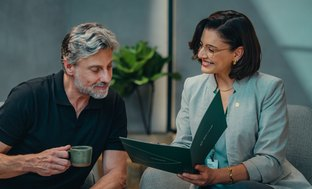
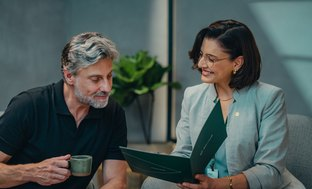
horoscopo: texto, selo e fundo; private reenquadrado nos rostos
O texto e o selo chegaram na pasta depois do commit anterior. Os tres
blocos sairam do placeholder e o selo veio em VETOR, entao entrou como
svg — e nao precisa de versao -m.

Fundo: o case nasceu sem foto e estava em preto chapado. Agora leva um
degrade roxo construido como o da Bridgestone (clarao suave sobre quase
preto), com as cores amostradas dos proprios filmes: #802CC2 de dominante
e #BE419B no canto. Tentei verde primeiro, mas os frames misturam verde e
magenta e a dominancia de verde nao passava de +5,6 — sairia embarreirado.
O grao de 2,2 existe porque degrade chapado em 1920 faz banding no
projetor.

Private: a Foto2 e retrato 5518x8277 e o corte centralizado cortava os
rostos do casal na altura do peito. O recorte agora e calculado a partir
da altura dos rostos (28,1% da imagem), posicionando-os a 40% do cartao.
A Foto3 foi junto, pelo mesmo criterio.

PDF e mobile ficaram para depois, a pedido.

diff --git a/mobile.html b/mobile.html
@@ -6,7 +6,7 @@
 <title>WT.AG — Credenciais 2026</title>
 <meta name="description" content="Credenciais WT.AG 2026 — Social First Agency.">
 <meta name="theme-color" content="#000000">
-<link rel="stylesheet" href="css/mobile.css?v=231">
+<link rel="stylesheet" href="css/mobile.css?v=233">
 </head>
 <body>
 <!-- ══════════════════════════════════════════════════════════════════════════
@@ -313,17 +313,18 @@
 <div><div class="rot">Repercussão</div><p class="vazio">Esta campanha não recebeu prêmios nem publicações na imprensa.</p></div>
 </section>
 <section class="sec sec--auto" id="m-s-horoscopo" style="--acento:#4FA82E" data-titulo="Sicredi Serrana · Horóscopo do Golpe" data-case="1">
-
+<div class="sec__bg"><img data-lazy="assets/img/cases/horoscopo-fundo.jpg" alt=""></div>
 <div class="credito"><img data-lazy="assets/img/logos-cases/sicredi.png" alt="Sicredi"><em>apresenta</em></div>
+<img class="selo" data-lazy="assets/img/logos-cases/selo-horoscopo-do-golpe.svg" alt="Horóscopo do Golpe">
 <div class="media media--16x9" data-video="assets/video/case-horoscopo.mp4" data-legenda="Sicredi Serrana · Horóscopo do Golpe"><img data-lazy="assets/img/cases/horoscopo-hero.jpg" alt=""><button class="play" type="button" aria-label="Assistir"></button></div>
 <div class="minis">
 <div class="mini" data-video="assets/video/case-horoscopo-v1.mp4" data-legenda="Horóscopo do Golpe — filme 2"><img data-lazy="assets/img/cases/horoscopo-vid1.jpg" alt=""><button class="play" type="button" aria-label="Assistir"></button></div>
 <div class="mini" data-video="assets/video/case-horoscopo-v2.mp4" data-legenda="Horóscopo do Golpe — filme 3"><img data-lazy="assets/img/cases/horoscopo-vid2.jpg" alt=""><button class="play" type="button" aria-label="Assistir"></button></div>
 </div>
-<div class="bloco"><h3>Contexto</h3><p class="txt">TEXTO PENDENTE — a definir com o cliente.</p></div>
-<div class="bloco"><h3>Insight</h3><p class="txt">TEXTO PENDENTE — a definir com o cliente.</p></div>
-<div class="bloco"><h3>Ideia</h3><p class="txt">TEXTO PENDENTE — a definir com o cliente.</p></div>
-<button class="mais" type="button" data-full="[{&quot;t&quot;: &quot;Contexto&quot;, &quot;x&quot;: &quot;TEXTO PENDENTE — a definir com o cliente.&quot;}, {&quot;t&quot;: &quot;Insight&quot;, &quot;x&quot;: &quot;TEXTO PENDENTE — a definir com o cliente.&quot;}, {&quot;t&quot;: &quot;Ideia&quot;, &quot;x&quot;: &quot;TEXTO PENDENTE — a definir com o cliente.&quot;}]">＋ Texto completo</button>
+<div class="bloco"><h3>Contexto</h3><p class="txt">Golpes financeiros seguem atingindo associados, e a conversa de segurança costuma soar séria e distante.</p></div>
+<div class="bloco"><h3>Insight</h3><p class="txt">O horóscopo é um dos assuntos mais comentados nas redes, e todo mundo conhece alguém que quase caiu em um golpe.</p></div>
+<div class="bloco"><h3>Ideia</h3><p class="txt">Série social first em que colaboradores contam, por signo, como reagiram a golpes reais — Pix, boleto, delivery.</p></div>
+<button class="mais" type="button" data-full="[{&quot;t&quot;: &quot;Contexto&quot;, &quot;x&quot;: &quot;Golpes financeiros seguem atingindo associados e colaboradores, e a conversa de segurança costuma soar séria e distante. O desafio era conscientizar sobre os riscos de forma leve, em uma linguagem que as pessoas realmente consumissem nas redes.&quot;}, {&quot;t&quot;: &quot;Insight&quot;, &quot;x&quot;: &quot;O horóscopo é um dos assuntos mais comentados nas redes, e todo mundo conhece alguém que já quase caiu em um golpe. Em vez de alertar com medo, a Serrana usou a trend para falar de um tema sério com humor.&quot;}, {&quot;t&quot;: &quot;Ideia&quot;, &quot;x&quot;: &quot;“Horóscopo do Golpe” é uma série de vídeos social first em que colaboradores da Serrana contam, por signo, como reagiram a golpes reais (Pix, boleto, delivery), fechando com: “Quem se informa, não se arrisca.”&quot;}]">＋ Texto completo</button>
 <div><div class="rot">Repercussão</div><p class="vazio">Esta campanha não recebeu prêmios nem publicações na imprensa.</p></div>
 </section>
 <section class="sec" data-titulo="Capa · Magalu">
@@ -592,7 +593,7 @@
 <div id="painel"><button class="fechar" type="button">×</button><div class="cx"></div></div>
 <div id="player"><button class="fechar" type="button">×</button></div>
 
-<script src="js/i18n-dic.js?v=231"></script>
-<script src="js/mobile.js?v=231"></script>
+<script src="js/i18n-dic.js?v=233"></script>
+<script src="js/mobile.js?v=233"></script>
 </body>
 </html>

diff --git a/index.html b/index.html
@@ -5,7 +5,7 @@
 <meta name="viewport" content="width=device-width,initial-scale=1">
 <title>WT.AG — Credenciais 2026</title>
 <meta name="description" content="Credenciais WT.AG 2026 — Social First Agency. Apresentação de slides.">
-<link rel="stylesheet" href="css/deck.css?v=231">
+<link rel="stylesheet" href="css/deck.css?v=234">
 </head>
 <body>
 
@@ -1364,7 +1364,9 @@
 </section>
 
 <!-- 28 ─ Sicredi Serrana · Horóscopo do Golpe -->
-<section id="s-horoscopo" class="slide case case--sem-reperc case--sem-kpis case--vert3" style="--acento:#4FA82E" data-ato="cases" data-tom="escuro" data-fundo="#0B0B0B" data-titulo="Sicredi Serrana · Horóscopo do Golpe">
+<section id="s-horoscopo" class="slide case case--sem-reperc case--sem-kpis case--vert3" style="--acento:#4FA82E" data-ato="cases" data-tom="escuro" data-titulo="Sicredi Serrana · Horóscopo do Golpe">
+  <div class="case__fundo"><img data-lazy="assets/img/cases/horoscopo-fundo.jpg" data-lazy-m="assets/img/cases/horoscopo-fundo-m.jpg" alt=""></div>
+  <div class="case__scrim"></div>
   <div class="marca marca--tl l-marcas sobre-escuro" data-enter="fade" data-delay="0"><span>Credenciais</span><button class="pilula-nav" type="button" data-ir="s-parceiras" data-nonav title="Ver as marcas parceiras da WT.AG">Clientes</button></div>
   <div class="marca marca--tr l-marcas sobre-escuro" data-enter="fade" data-delay="0">2026</div>
 
@@ -1373,13 +1375,18 @@
     <em>apresenta</em>
   </div>
 
+  <div class="abs l-chamada case__selo" style="left:72px;top:210px" data-enter="up" data-delay="153">
+    <img data-lazy="assets/img/logos-cases/selo-horoscopo-do-golpe.svg" data-lazy-m="assets/img/logos-cases/selo-horoscopo-do-golpe.svg" alt="Horóscopo do Golpe">
+    <span class="selo__nota">Quem se informa, não se arrisca.</span>
+  </div>
+
   <div class="case__col" style="top:520px" data-stagger="110" data-delay="260">
     <div class="case__blk" data-enter="up"><h3>Contexto</h3>
-      <p data-texto="TEXTO PENDENTE — a definir com o cliente.">TEXTO PENDENTE — a definir com o cliente.</p></div>
+      <p data-texto="Golpes financeiros seguem atingindo associados e colaboradores, e a conversa de segurança costuma soar séria e distante. O desafio era conscientizar sobre os riscos de forma leve, em uma linguagem que as pessoas realmente consumissem nas redes.">Golpes financeiros seguem atingindo associados, e a conversa de segurança costuma soar séria e distante.</p></div>
     <div class="case__blk" data-enter="up"><h3>Insight</h3>
-      <p data-texto="TEXTO PENDENTE — a definir com o cliente.">TEXTO PENDENTE — a definir com o cliente.</p></div>
+      <p data-texto="O horóscopo é um dos assuntos mais comentados nas redes, e todo mundo conhece alguém que já quase caiu em um golpe. Em vez de alertar com medo, a Serrana usou a trend para falar de um tema sério com humor.">O horóscopo é um dos assuntos mais comentados nas redes, e todo mundo conhece alguém que quase caiu em um golpe.</p></div>
     <div class="case__blk" data-enter="up"><h3>Ideia</h3>
-      <p data-texto="TEXTO PENDENTE — a definir com o cliente.">TEXTO PENDENTE — a definir com o cliente.</p></div>
+      <p data-texto="“Horóscopo do Golpe” é uma série de vídeos social first em que colaboradores da Serrana contam, por signo, como reagiram a golpes reais (Pix, boleto, delivery), fechando com: “Quem se informa, não se arrisca.”">Série social first em que colaboradores contam, por signo, como reagiram a golpes reais — Pix, boleto, delivery.</p></div>
   </div>
   <button class="case__mais" type="button" style="top:847px">＋ Texto completo</button>
 
@@ -2347,8 +2354,8 @@
 
 </div><!-- /#viewport -->
 
-<script src="js/deck.js?v=231"></script>
-<script src="js/i18n-dic.js?v=231"></script>
-<script src="js/i18n.js?v=231"></script>
+<script src="js/deck.js?v=234"></script>
+<script src="js/i18n-dic.js?v=234"></script>
+<script src="js/i18n.js?v=234"></script>
 </body>
 </html>

diff --git a/js/i18n-dic.js b/js/i18n-dic.js
@@ -300,6 +300,13 @@ window.DIC_EN = {
 /* ── capas de cliente ────────────────────────────────────────────────── */
 'Capa · Magalu': 'Cover · Magalu',
 'Capa · Sicredi': 'Cover · Sicredi',
+'Golpes financeiros seguem atingindo associados, e a conversa de segurança costuma soar séria e distante.': 'Financial scams keep reaching members, and the security conversation tends to sound solemn and remote.',
+'Golpes financeiros seguem atingindo associados e colaboradores, e a conversa de segurança costuma soar séria e distante. O desafio era conscientizar sobre os riscos de forma leve, em uma linguagem que as pessoas realmente consumissem nas redes.': 'Financial scams keep reaching members and staff, and the security conversation tends to sound solemn and remote. The challenge was to raise awareness of the risks in a light way, in a language people would actually consume on social media.',
+'O horóscopo é um dos assuntos mais comentados nas redes, e todo mundo conhece alguém que quase caiu em um golpe.': 'Horoscopes are among the most talked-about subjects online, and everyone knows someone who nearly fell for a scam.',
+'O horóscopo é um dos assuntos mais comentados nas redes, e todo mundo conhece alguém que já quase caiu em um golpe. Em vez de alertar com medo, a Serrana usou a trend para falar de um tema sério com humor.': 'Horoscopes are among the most talked-about subjects online, and everyone knows someone who nearly fell for a scam. Instead of warning through fear, Serrana used the trend to treat a serious subject with humour.',
+'Série social first em que colaboradores contam, por signo, como reagiram a golpes reais — Pix, boleto, delivery.': 'A social-first series in which staff tell, sign by sign, how they reacted to real scams — Pix, bank slips, delivery.',
+'“Horóscopo do Golpe” é uma série de vídeos social first em que colaboradores da Serrana contam, por signo, como reagiram a golpes reais (Pix, boleto, delivery), fechando com: “Quem se informa, não se arrisca.”': '“Scam Horoscope” is a social-first video series in which Serrana staff tell, sign by sign, how they reacted to real scams (Pix, bank slips, delivery), closing with: “Those who stay informed take no chances.”',
+'Quem se informa, não se arrisca.': 'Those who stay informed take no chances.',
 /* ---- Sicredi Serrana: Clubinho da Poupanca, Private e Horoscopo do Golpe,
    os tres one pages de 07.10. O Horoscopo entrou com placeholder de texto
    nos tres blocos; quando o texto chegar, estas linhas trocam junto. ---- */
